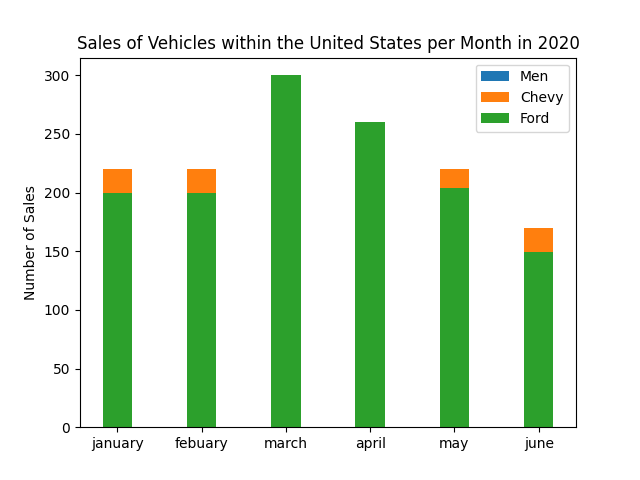
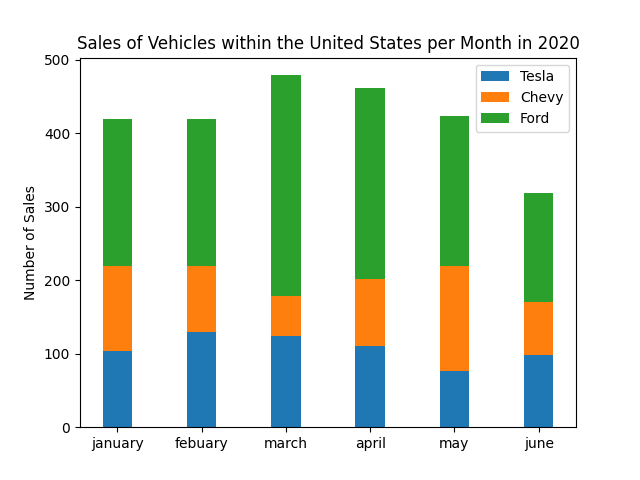
did i make a graph

diff --git a/graphing/weallgraph.py b/graphing/weallgraph.py
@@ -38,9 +38,9 @@ width = 0.35       # the width of the bars: can also be len(x) sequence
 
 fig, ax = plt.subplots()
 
-ax.bar(labels, teslasales, width, label='Men')
-ax.bar(labels, chevysales, width, label='Chevy')
-ax.bar(labels, fordsales, width, label='Ford')
+ax.bar(labels, teslasales, width, label='Tesla')
+ax.bar(labels, chevysales, width, label='Chevy', bottom=teslasales)
+ax.bar(labels, fordsales, width, label='Ford', bottom=chevysales)
 
 ax.set_ylabel('Number of Sales')
 ax.set_title('Sales of Vehicles within the United States per Month in 2020')
